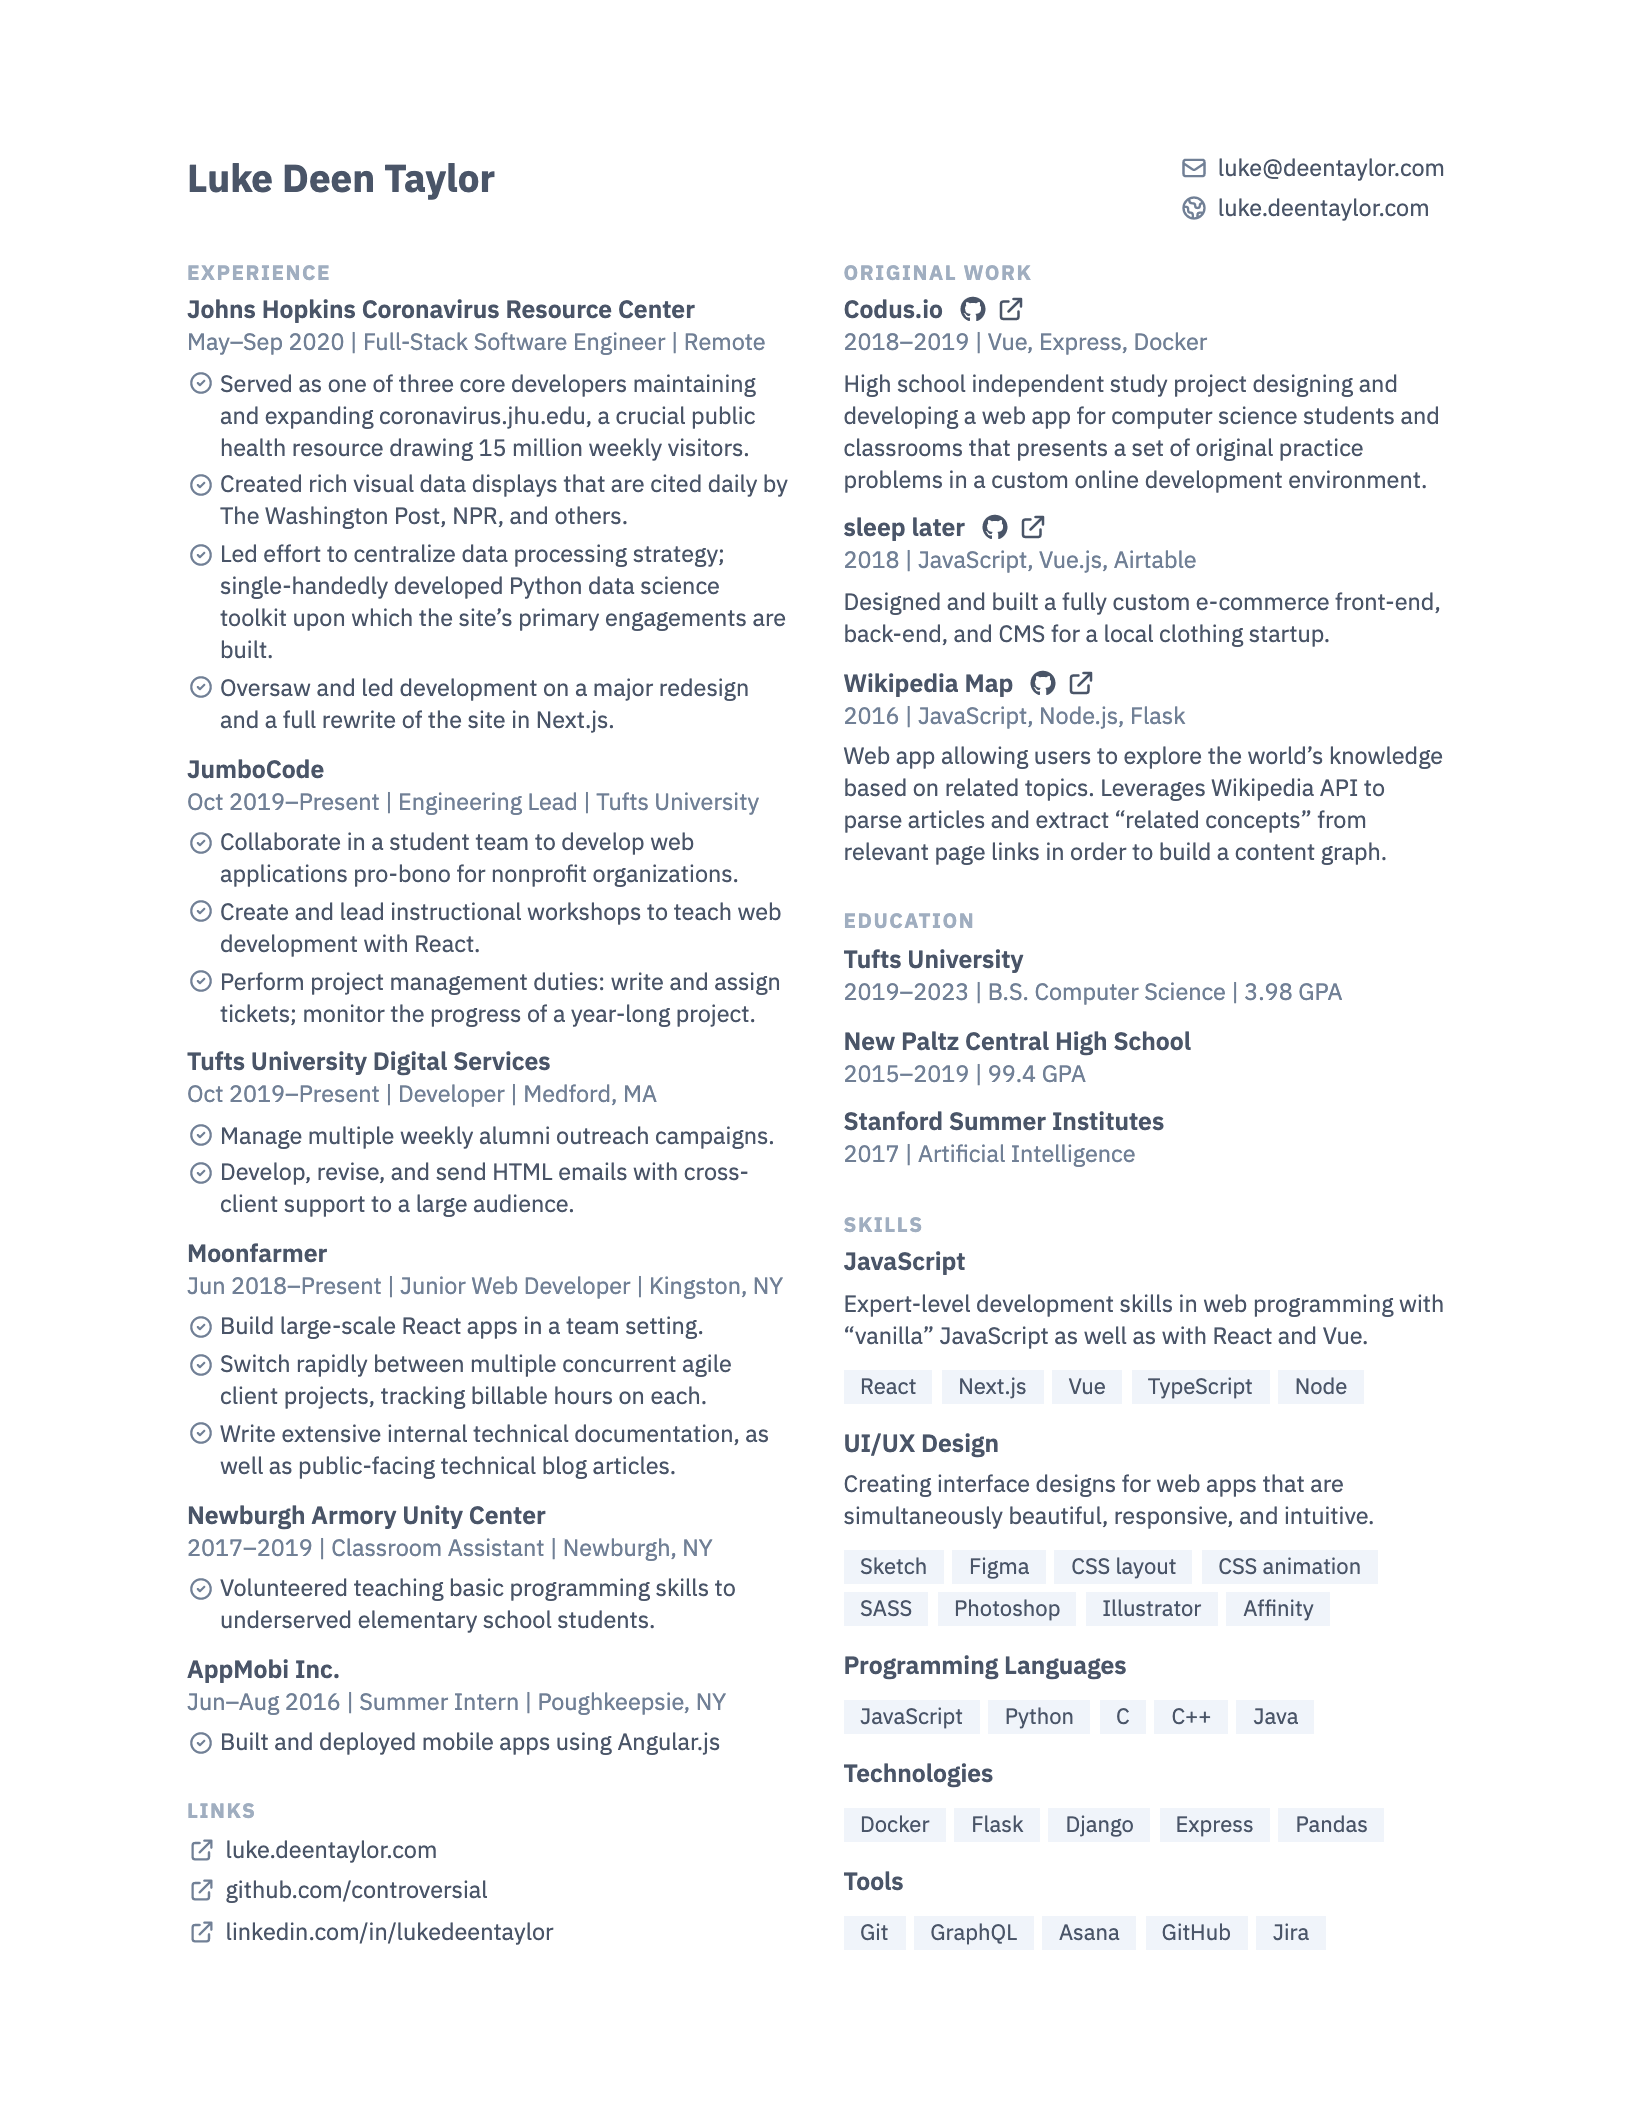
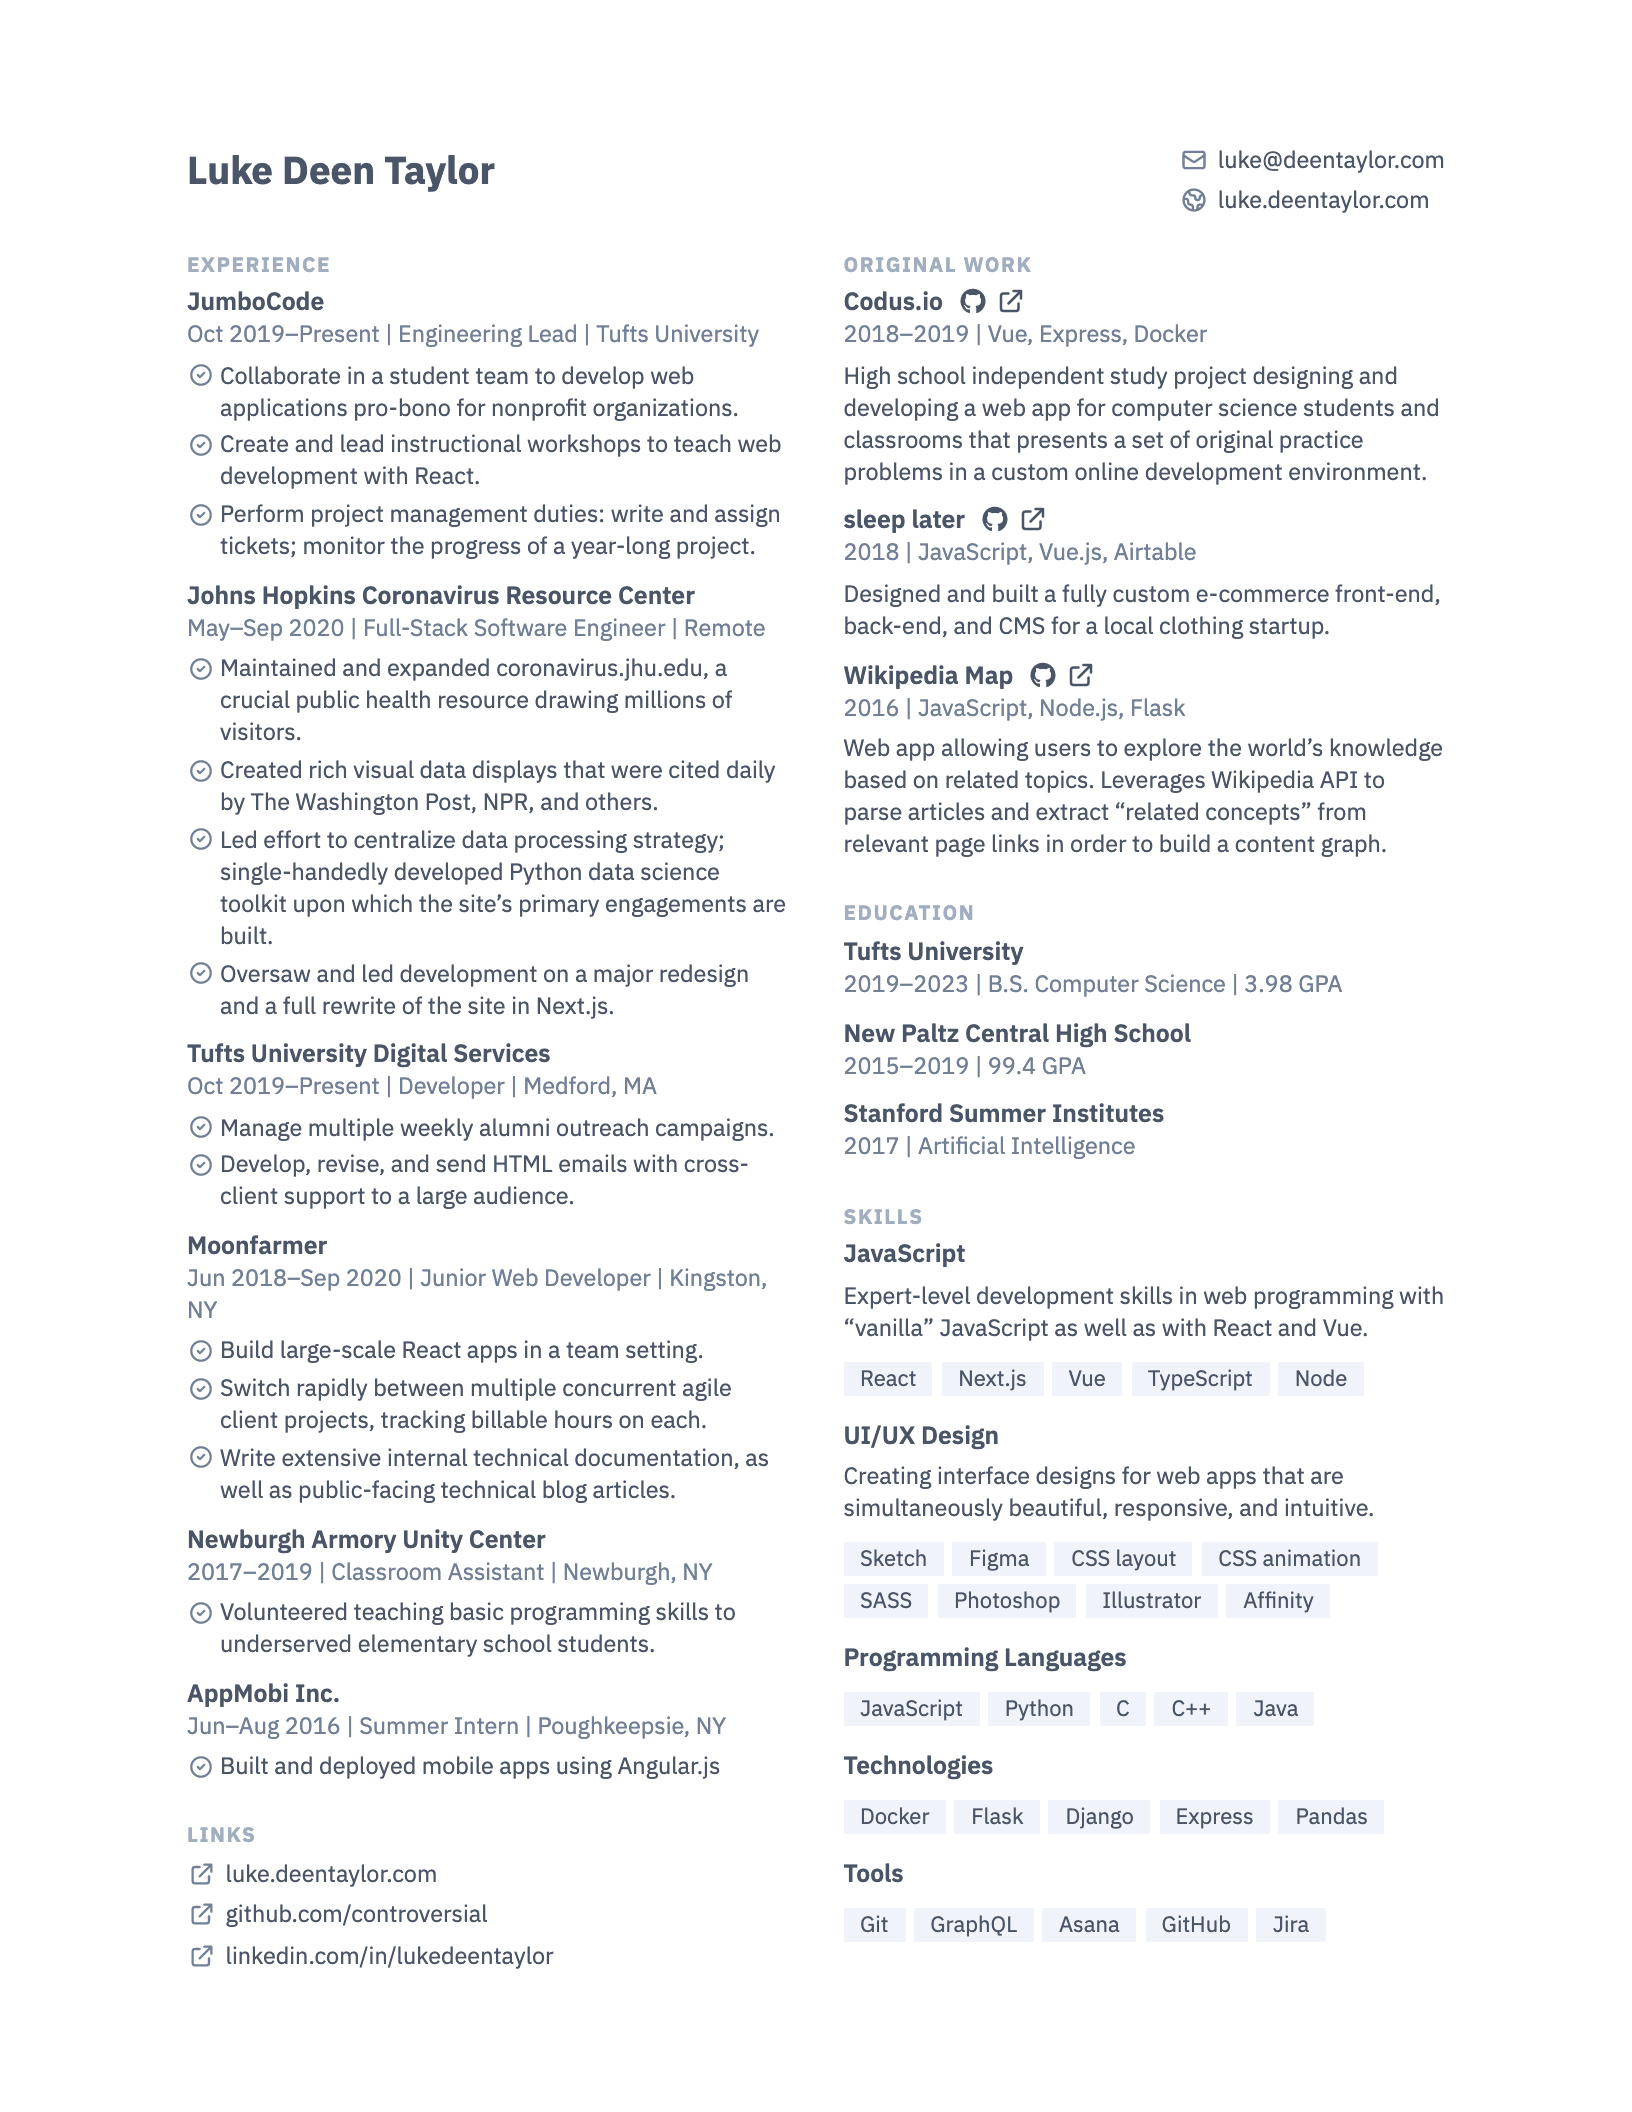
Content updates

diff --git a/src/content.js b/src/content.js
@@ -15,19 +15,6 @@ export default {
 
   experience: [
     {
-      employer: 'Johns Hopkins Coronavirus Resource Center',
-      position: 'Full-Stack Software Engineer',
-      location: 'Remote',
-      startDate: new Date('2020-05-06'),
-      endDate: new Date('2020-09-04'),
-      tasks: [
-        'Served as one of three core developers maintaining and expanding coronavirus.jhu.edu, a crucial public health resource drawing 15 million weekly visitors.',
-        'Created rich visual data displays that are cited daily by The Washington Post, NPR, and others.',
-        'Led effort to centralize data processing strategy; single-handedly developed Python data science toolkit upon which the site’s primary engagements are built.',
-        'Oversaw and led development on a major redesign and a full rewrite of the site in Next.js.',
-      ],
-    },
-    {
       employer: 'JumboCode',
       position: 'Engineering Lead',
       location: 'Tufts University',
@@ -36,6 +23,19 @@ export default {
         'Collaborate in a student team to develop web applications pro-bono for nonprofit organizations.',
         'Create and lead instructional workshops to teach web development with React.',
         'Perform project management duties: write and assign tickets; monitor the progress of a year-long project.',
+      ],
+    },
+    {
+      employer: 'Johns Hopkins Coronavirus Resource Center',
+      position: 'Full-Stack Software Engineer',
+      location: 'Remote',
+      startDate: new Date('2020-05-06'),
+      endDate: new Date('2020-09-04'),
+      tasks: [
+        'Maintained and expanded coronavirus.jhu.edu, a crucial public health resource drawing millions of visitors.',
+        'Created rich visual data displays that were cited daily by The Washington Post, NPR, and others.',
+        'Led effort to centralize data processing strategy; single-handedly developed Python data science toolkit upon which the site’s primary engagements are built.',
+        'Oversaw and led development on a major redesign and a full rewrite of the site in Next.js.',
       ],
     },
     {
@@ -53,6 +53,7 @@ export default {
       position: 'Junior Web Developer',
       location: 'Kingston, NY',
       startDate: new Date('2018-06-20'),
+      endDate: new Date('2020-09-01'),
       tasks: [
         'Build large-scale React apps in a team setting.',
         'Switch rapidly between multiple concurrent agile client projects, tracking billable hours on each.',
